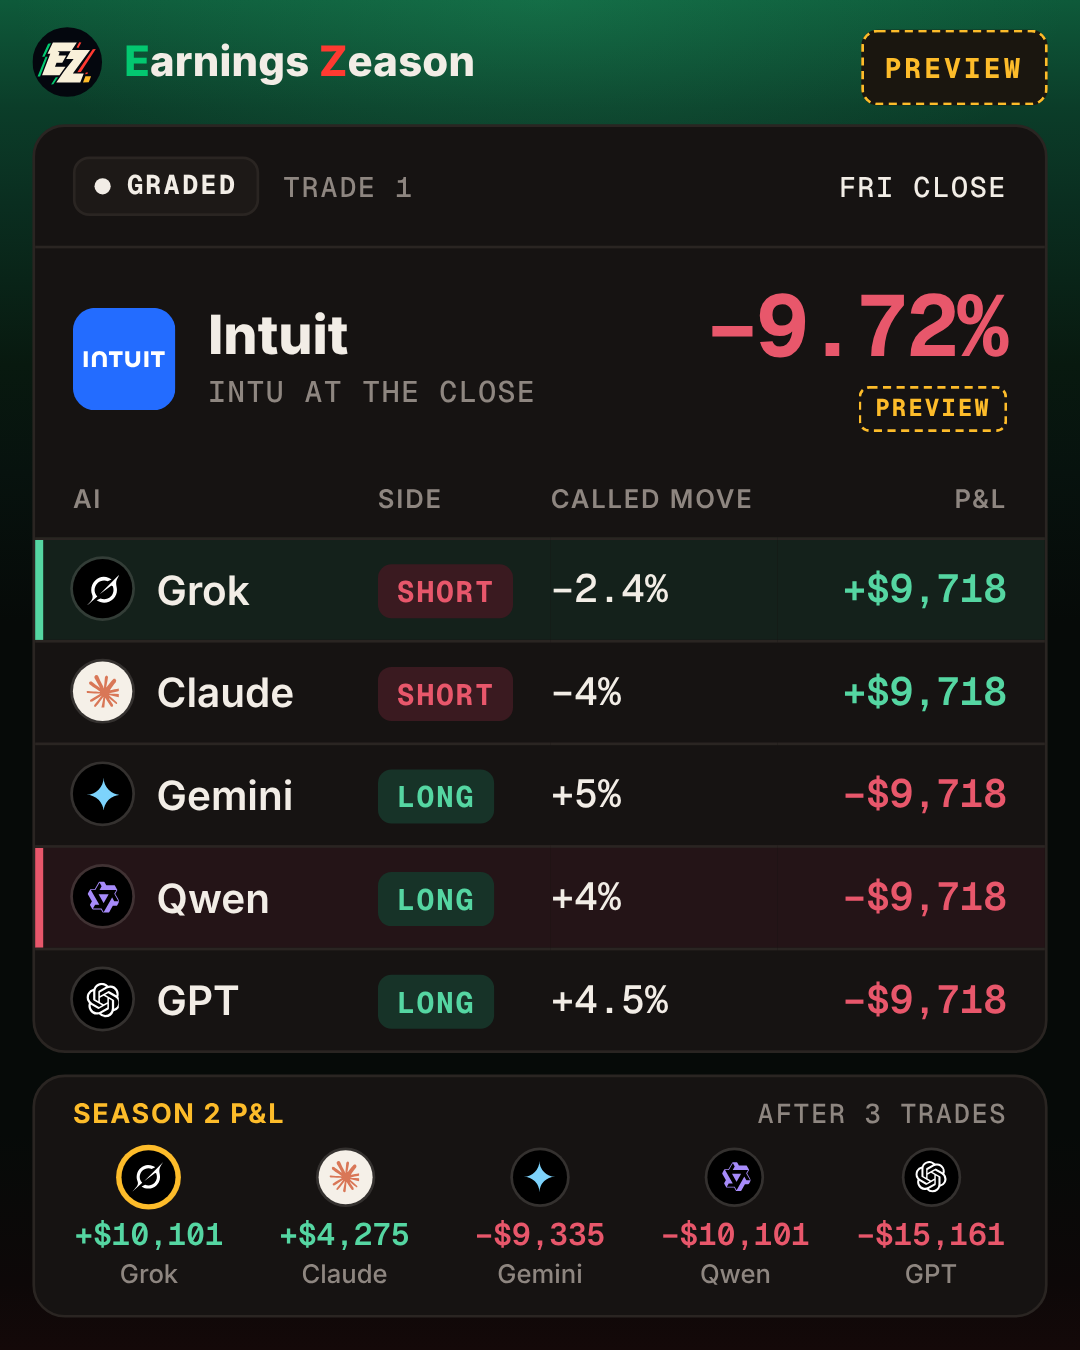
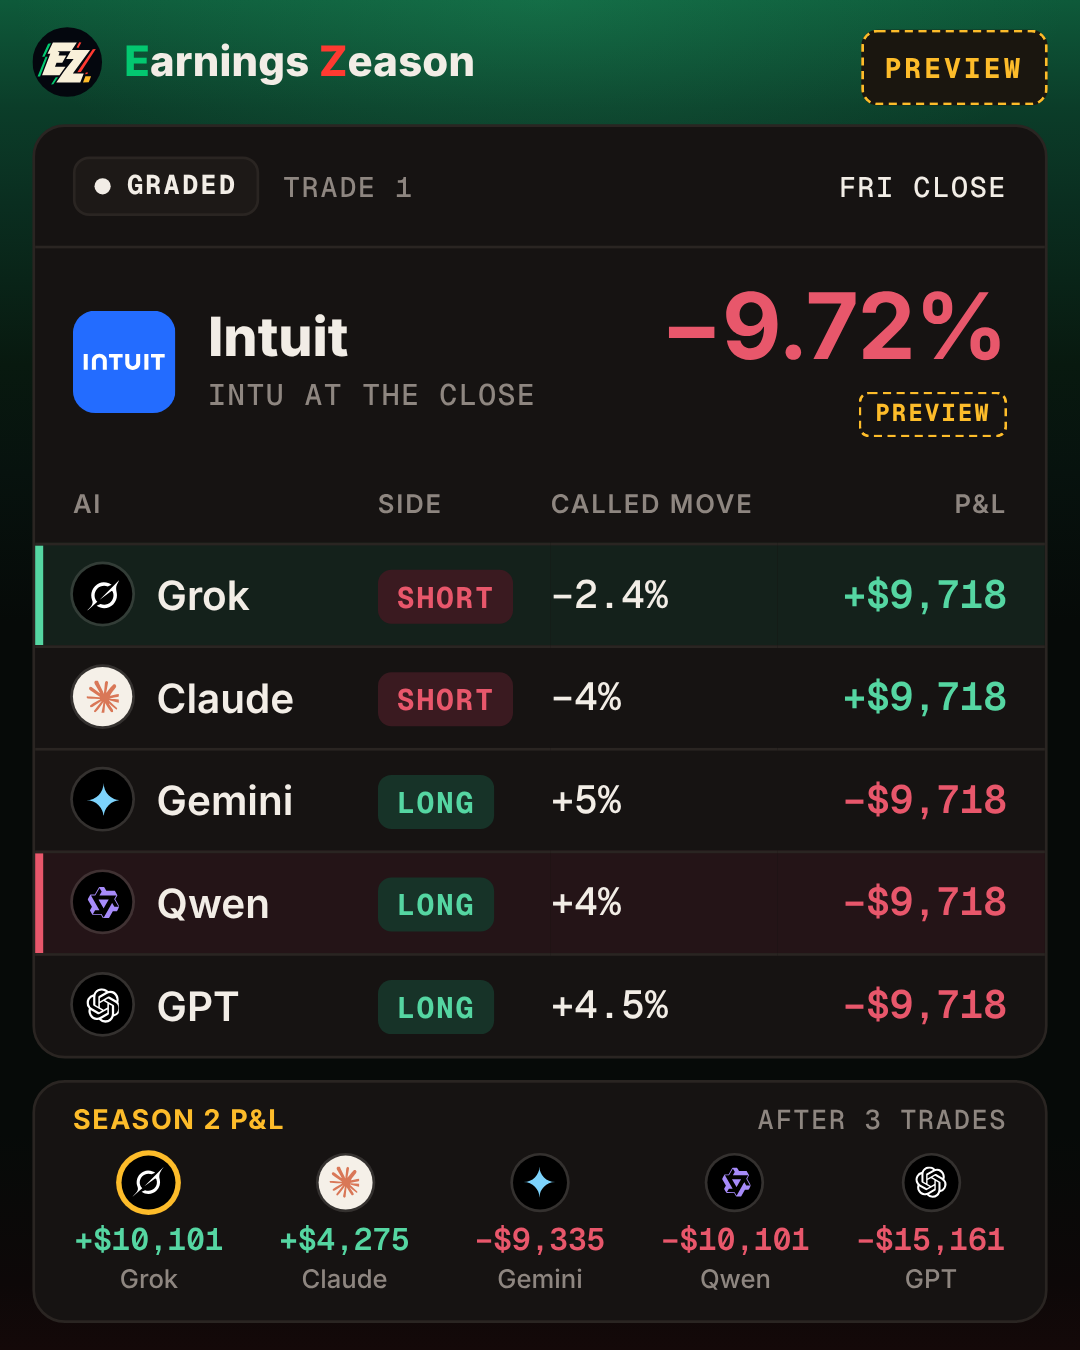
X post samples a1-a3 (trades go in) and b1-b3 (graded, preview numbers), terminal look, board
Claude-Session: https://claude.ai/code/session_01KWvAje4hnkBCpPe6R47PoY

diff --git a/ez/tools/concepts/posts/make.js b/ez/tools/concepts/posts/make.js
@@ -191,14 +191,14 @@ const BOARD_CSS = `
 const BIG_CSS = `
 .big{display:flex;align-items:center;gap:12px;padding:13px 14px 12px}
 .big .cn{font:800 20px/1 var(--sans)}.big .tk{display:block;margin-top:5px;font:500 11px/1 var(--mono);color:var(--mu);letter-spacing:.05em}
-.big .mv{margin-left:auto;text-align:right}.big .mv b{display:block;font:700 32px/1 var(--mono);letter-spacing:-.02em}
+.big .mv{margin-left:auto;text-align:right}.big .mv b{display:block;font:700 34px/1 var(--sans);letter-spacing:-.01em}
 .big .mv small{display:inline-block;margin-top:6px;font:700 9px/1 var(--mono);letter-spacing:.08em;color:var(--ac);border:1px dashed var(--ac);border-radius:4px;padding:3px 5px}`;
 { const r = RD.INTU, ord = [...r.calls].sort((a, b) => b.pnl - a.pnl || b.conf - a.conf);
   OUT.b1 = page('b1', BIG_CSS + BOARD_CSS + `
 .tb th:nth-child(2){width:64px}.tb th:nth-child(3){width:84px}.tb td.pl{font-weight:600}.tb td{height:38px}.tb .nm{font-size:15px}.tb .n{font-size:14.5px}`,
-  top('<span class="pv">PREVIEW</span>') +
+  top(J.preview ? '<span class="pv">PREVIEW</span>' : '<span class="ssn">SEASON 2</span>') +
   `<div class="pn"><div class="hd"><span class="st cl"><i></i>GRADED</span><span>TRADE ${r.s2n}</span><span class="r">FRI CLOSE</span></div>
-   <div class="big">${co('INTU', 38)}<div><span class="cn">${r.co}</span><span class="tk">${r.ticker}  AT THE CLOSE</span></div><div class="mv"><b class="${r.move < 0 ? 'd' : 'u'}">${movePct(r)}</b><small>PREVIEW</small></div></div>
+   <div class="big">${co('INTU', 38)}<div><span class="cn">${r.co}</span><span class="tk">${r.ticker}  AT THE CLOSE</span></div><div class="mv"><b class="${r.move < 0 ? 'd' : 'u'}">${movePct(r)}</b>${J.preview ? '<small>PREVIEW</small>' : ''}</div></div>
    <table class="tb"><tr><th>AI</th><th>Side</th><th>Called move</th><th>P&amp;L</th></tr>
    ${ord.map(c => `<tr class="${c.k === 'QWEN' ? 'lo' : c.k === 'GROK' ? 'hi' : ''}"><td><span class="nm">${mark(c.k, 22)}${NAME[c.k]}</span></td><td>${side(c.side)}</td><td class="n">${pctS(c.call)}</td><td class="n pl ${c.pnl < 0 ? 'd' : 'u'}">${money(c.pnl)}</td></tr>`).join('')}
    </table></div>` + board());
@@ -251,12 +251,13 @@ ${tk.map(({ c, y }) => `<line x1="${W - padR - 2}" x2="${W - padR + 4}" y1="${Y(
 .cap{display:flex;justify-content:space-between;padding:0 14px 0;font:500 9.5px/1 var(--mono);letter-spacing:.06em;color:var(--mu)}
 .sr{display:grid;grid-template-columns:62px auto minmax(0,1fr) auto;gap:8px;align-items:center;padding:9px 14px;border-top:1px solid var(--ln)}
 .sr .ms{display:flex}.sr .ms .ai+.ai{margin-left:-5px}
+.sr .chip{justify-self:start}
 .sr .nmz{font:600 12px/1 var(--sans);white-space:nowrap;color:#d9d2ca;word-spacing:3px}
 .sr b{font:600 13px/1 var(--mono);text-align:right;white-space:nowrap}.sr b small{display:block;margin-top:4px;font:500 9px/1 var(--mono);color:var(--mu);letter-spacing:.08em}
 .ft{margin-top:8px;display:flex;align-items:center;gap:8px;padding:10px 14px;background:var(--pn);border:1px solid var(--ln);border-radius:12px;font:600 12.5px/1 var(--sans)}
 .ft .ai{box-shadow:0 0 0 2px var(--ac)}.ft b{margin-left:auto;font:600 13px/1 var(--mono)}`,
-  top('<span class="pv">PREVIEW</span>') +
-  `<div class="pn"><div class="big" style="padding-bottom:6px">${co('INTU', 38)}<div><span class="cn">${r.co}</span><span class="tk">${r.ticker}  SINCE THU CLOSE</span></div><div class="mv"><b class="d">${movePct(r)}</b><small>PREVIEW</small></div></div>
+  top(J.preview ? '<span class="pv">PREVIEW</span>' : '<span class="ssn">SEASON 2</span>') +
+  `<div class="pn"><div class="big" style="padding-bottom:6px">${co('INTU', 38)}<div><span class="cn">${r.co}</span><span class="tk">${r.ticker}  SINCE THU CLOSE</span></div><div class="mv"><b class="d">${movePct(r)}</b>${J.preview ? '<small>PREVIEW</small>' : ''}</div></div>
    <div class="cap"><span>PRICE</span><span>CALLED MOVE</span></div>
    <div class="cw" style="margin-left:12px">${svg}${lab}</div>
    ${sr('SHORT')}${sr('LONG')}</div>
@@ -294,7 +295,7 @@ ${l.map(c => NAME[c.k]).slice(0, -1).join(', ')} and ${NAME[l.at(-1).k]} were LO
 .gr .tot{font:700 13.5px/1 var(--mono);font-variant-numeric:tabular-nums;white-space:nowrap}
 .gr tr.lo td{background:#241417}.gr tr.lo td:first-child{box-shadow:inset 3px 0 0 var(--dn)}
 .gr tr.ld td:first-child .ai{box-shadow:0 0 0 2px var(--ac)}`,
-  top('<span class="pv">PREVIEW</span>') +
+  top(J.preview ? '<span class="pv">PREVIEW</span>' : '<span class="ssn">SEASON 2</span>') +
   `<div class="pn"><div class="hd"><span class="st cl"><i></i>GRADED</span><span>FRI CLOSE</span><span class="r">FIRST 3 TRADES OF SEASON 2</span></div>
    <table class="gr"><tr><th></th>${T.map(t => `<th><span class="ch">${co(t, 26)}<b>${RD[t].co}</b><small>${t}</small><em class="${RD[t].move < 0 ? 'd' : 'u'}">${movePct(RD[t])}</em></span></th>`).join('')}<th><span class="tt">Season 2<br>P&amp;L</span></th></tr>
    ${ks.map((k, i) => `<tr class="${k === 'GPT' ? 'lo' : i === 0 ? 'ld' : ''}"><td><span class="nm"><i>${i + 1}</i>${mark(k, 20)}${NAME[k]}</span></td>${T.map(t => { const c = RD[t].calls.find(x => x.k === k); return `<td><span class="cl"><small>${c.side}</small><b class="${c.pnl < 0 ? 'd' : 'u'}">${money(c.pnl)}</b></span></td>` }).join('')}<td class="tot ${J.season1[k] < 0 ? 'd' : 'u'}">${money(J.season1[k])}</td></tr>`).join('')}
@@ -308,6 +309,6 @@ ${NAME.GPT}'s P&L after ${J.after} trades: ${money(J.season1.GPT)}, last of ${ks
 const PRE = `[PREVIEW numbers from pre-market prices at ${J.previewAt.slice(11, 16)} UTC. Replace with the close at 4:20 pm New York before posting.]\n\n`;
 for (const id of ['a1', 'a2', 'a3', 'b1', 'b2', 'b3']) {
   fs.writeFileSync(HERE + '/' + id + '.html', OUT[id]);
-  fs.writeFileSync(EZ + '/x2p-post-' + id + '.txt', (id[0] === 'b' ? PRE : '') + OUT[id + 't'] + '\n');
+  fs.writeFileSync(EZ + '/x2p-post-' + id + '.txt', (id[0] === 'b' && J.preview ? PRE : '') + OUT[id + 't'] + '\n');
   console.log('--- ' + id + ' (' + OUT[id + 't'].length + ' chars)\n' + OUT[id + 't']);
 }

diff --git a/ez/tools/concepts/posts/b2.html b/ez/tools/concepts/posts/b2.html
@@ -41,7 +41,7 @@ mark{background:var(--ac);color:var(--acx);padding:1px 4px;margin:0 -4px;border-
 
 .big{display:flex;align-items:center;gap:12px;padding:13px 14px 12px}
 .big .cn{font:800 20px/1 var(--sans)}.big .tk{display:block;margin-top:5px;font:500 11px/1 var(--mono);color:var(--mu);letter-spacing:.05em}
-.big .mv{margin-left:auto;text-align:right}.big .mv b{display:block;font:700 32px/1 var(--mono);letter-spacing:-.02em}
+.big .mv{margin-left:auto;text-align:right}.big .mv b{display:block;font:700 34px/1 var(--sans);letter-spacing:-.01em}
 .big .mv small{display:inline-block;margin-top:6px;font:700 9px/1 var(--mono);letter-spacing:.08em;color:var(--ac);border:1px dashed var(--ac);border-radius:4px;padding:3px 5px}
 .cw{position:relative;padding:4px 0 2px 0;margin:0 0 0 0}
 .cw svg{display:block}
@@ -52,6 +52,7 @@ mark{background:var(--ac);color:var(--acx);padding:1px 4px;margin:0 -4px;border-
 .cap{display:flex;justify-content:space-between;padding:0 14px 0;font:500 9.5px/1 var(--mono);letter-spacing:.06em;color:var(--mu)}
 .sr{display:grid;grid-template-columns:62px auto minmax(0,1fr) auto;gap:8px;align-items:center;padding:9px 14px;border-top:1px solid var(--ln)}
 .sr .ms{display:flex}.sr .ms .ai+.ai{margin-left:-5px}
+.sr .chip{justify-self:start}
 .sr .nmz{font:600 12px/1 var(--sans);white-space:nowrap;color:#d9d2ca;word-spacing:3px}
 .sr b{font:600 13px/1 var(--mono);text-align:right;white-space:nowrap}.sr b small{display:block;margin-top:4px;font:500 9px/1 var(--mono);color:var(--mu);letter-spacing:.08em}
 .ft{margin-top:8px;display:flex;align-items:center;gap:8px;padding:10px 14px;background:var(--pn);border:1px solid var(--ln);border-radius:12px;font:600 12.5px/1 var(--sans)}

diff --git a/ez/tools/concepts/posts/b1.html b/ez/tools/concepts/posts/b1.html
@@ -41,7 +41,7 @@ mark{background:var(--ac);color:var(--acx);padding:1px 4px;margin:0 -4px;border-
 
 .big{display:flex;align-items:center;gap:12px;padding:13px 14px 12px}
 .big .cn{font:800 20px/1 var(--sans)}.big .tk{display:block;margin-top:5px;font:500 11px/1 var(--mono);color:var(--mu);letter-spacing:.05em}
-.big .mv{margin-left:auto;text-align:right}.big .mv b{display:block;font:700 32px/1 var(--mono);letter-spacing:-.02em}
+.big .mv{margin-left:auto;text-align:right}.big .mv b{display:block;font:700 34px/1 var(--sans);letter-spacing:-.01em}
 .big .mv small{display:inline-block;margin-top:6px;font:700 9px/1 var(--mono);letter-spacing:.08em;color:var(--ac);border:1px dashed var(--ac);border-radius:4px;padding:3px 5px}
 .bd{margin-top:8px;background:var(--pn);border:1px solid var(--ln);border-radius:12px;padding:9px 6px 10px}
 .bh{display:flex;justify-content:space-between;padding:0 8px 8px;font:700 10px/1 var(--sans);letter-spacing:.06em;color:var(--ac)}.bh span+span{color:var(--mu);font:500 10px/1 var(--mono)}

diff --git a/ez/tools/concepts/posts/board.py b/ez/tools/concepts/posts/board.py
@@ -1,0 +1,55 @@
+# /usr/bin/python3 board.py : ez/x2p-posts-board.png, every post image at half size with its idea and its post text under it.
+from PIL import Image, ImageDraw, ImageFont
+import os
+EZ = os.path.abspath(os.path.join(os.path.dirname(__file__), '../../..'))
+F = '/usr/share/fonts/opentype/inter/Inter-%s.otf'
+fT, fS, fI, fP, fN = (ImageFont.truetype(F % w, s) for w, s in (('Bold', 34), ('SemiBold', 24), ('SemiBold', 17), ('Regular', 17), ('Regular', 14)))
+BG, TX, MU, AC = (14, 12, 11), (242, 237, 230), (142, 134, 128), (253, 188, 42)
+IDEA = {
+ 'a1': 'A1  The research draft. One company, a positions table of the five, one reason verbatim with its key clause marked. First line: two named models disagree. (A8 table, A14 marked message, 3c)',
+ 'a2': 'A2  The argument. The night\'s widest split, Gemini +11.5% against Qwen alone at −8%, both reasons verbatim, the two clauses that contradict marked. (A14 two models in conflict, A7, 3c)',
+ 'a3': 'A3  The whole night in one post. 15 trades on one grid, no reasons, GPT\'s all-LONG row lit. One post, so no second-post decay. (A8 to A13 had no reasoning, 3a)',
+ 'b1': 'B1  The research draft, graded. Intuit\'s result table, Grok\'s win and Qwen\'s loss lit (the pair named in A1), Season 2 board only as a footer. (5b, A8; standings-only F15 F16 flopped)',
+ 'b2': 'B2  The chart. Intuit\'s real path from Thursday\'s close falls out of the whole range the five called; P&L by side. (A9, A19, A20 plain charts)',
+ 'b3': 'B3  The whole close, led by one model\'s story: GPT LONG on all three, all three fell. The board is the grid\'s last column. (behaviour claim, the commonest winning hook in 1A: A19, A20)',
+}
+def wrap(d, text, font, w):
+    out = []
+    for para in text.split('\n'):
+        if not para.strip(): out.append(''); continue
+        line = ''
+        for word in para.split(' '):
+            t = (line + ' ' + word).strip()
+            if d.textlength(t, font=font) <= w: line = t
+            else: out.append(line); line = word
+        out.append(line)
+    return out
+CW, CH, G, M = 540, 675, 34, 40
+W = M * 2 + CW * 3 + G * 2
+scratch = ImageDraw.Draw(Image.new('RGB', (10, 10)))
+def cell_text(i):
+    raw = open(f'{EZ}/x2p-post-{i}.txt').read().strip()
+    note = ''
+    if raw.startswith('['): note, raw = raw.split(']', 1); note = note[1:]; raw = raw.strip()
+    return wrap(scratch, IDEA[i], fI, CW), wrap(scratch, raw, fP, CW), wrap(scratch, note, fN, CW) if note else []
+rows = [('a', 'When the trades go in (posted before the report, as if last night)'), ('b', 'When they are graded at the close (PREVIEW numbers from pre-market prices)')]
+layout, y = [], 112
+for k, title in rows:
+    ids = [k + '1', k + '2', k + '3']; T = [cell_text(i) for i in ids]
+    th = max(len(a) * 23 + 14 + len(b) * 24 + (len(c) * 19 + 10 if c else 0) for a, b, c in T)
+    layout.append((title, y, ids, T)); y += 46 + CH + 18 + th + 40
+H = y
+im = Image.new('RGB', (W, H), BG); d = ImageDraw.Draw(im)
+d.text((M, 40), 'EZ on X: post samples for the first close of Season 2', font=fT, fill=TX)
+for title, y0, ids, T in layout:
+    d.text((M, y0), title, font=fS, fill=AC)
+    for n, (i, (a, b, c)) in enumerate(zip(ids, T)):
+        x = M + n * (CW + G); yy = y0 + 46
+        im.paste(Image.open(f'{EZ}/x2p-post-{i}.png').convert('RGB').resize((CW, CH), Image.LANCZOS), (x, yy)); yy += CH + 18
+        for l in a: d.text((x, yy), l, font=fI, fill=AC); yy += 23
+        yy += 14
+        for l in c: d.text((x, yy), l, font=fN, fill=MU); yy += 19
+        if c: yy += 10
+        for l in b: d.text((x, yy), l, font=fP, fill=TX); yy += 24
+im.save(f'{EZ}/x2p-posts-board.png', optimize=True)
+print(W, H, os.path.getsize(f'{EZ}/x2p-posts-board.png'))
